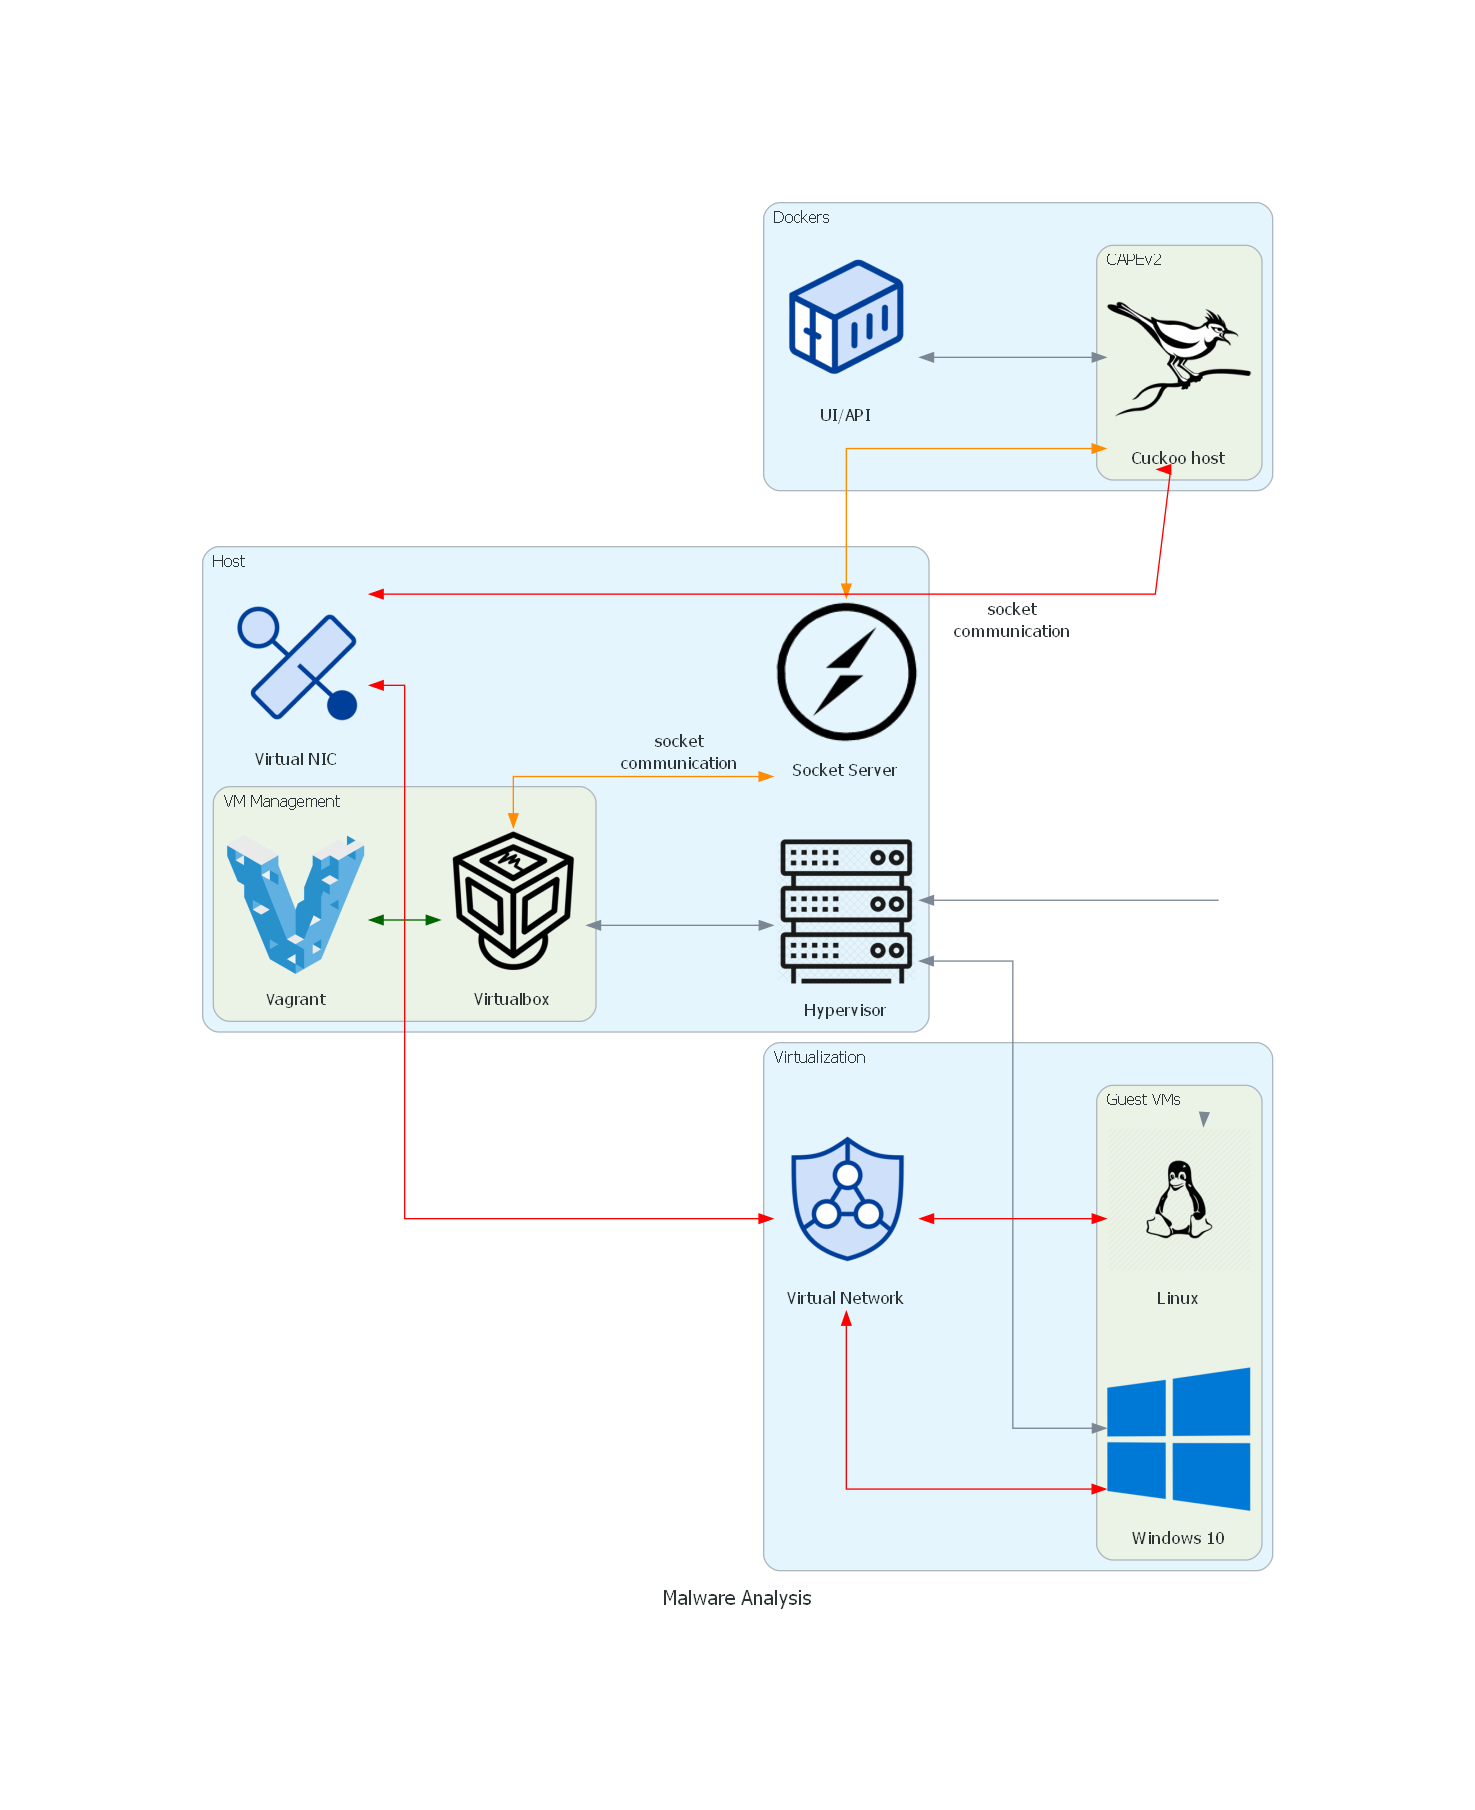
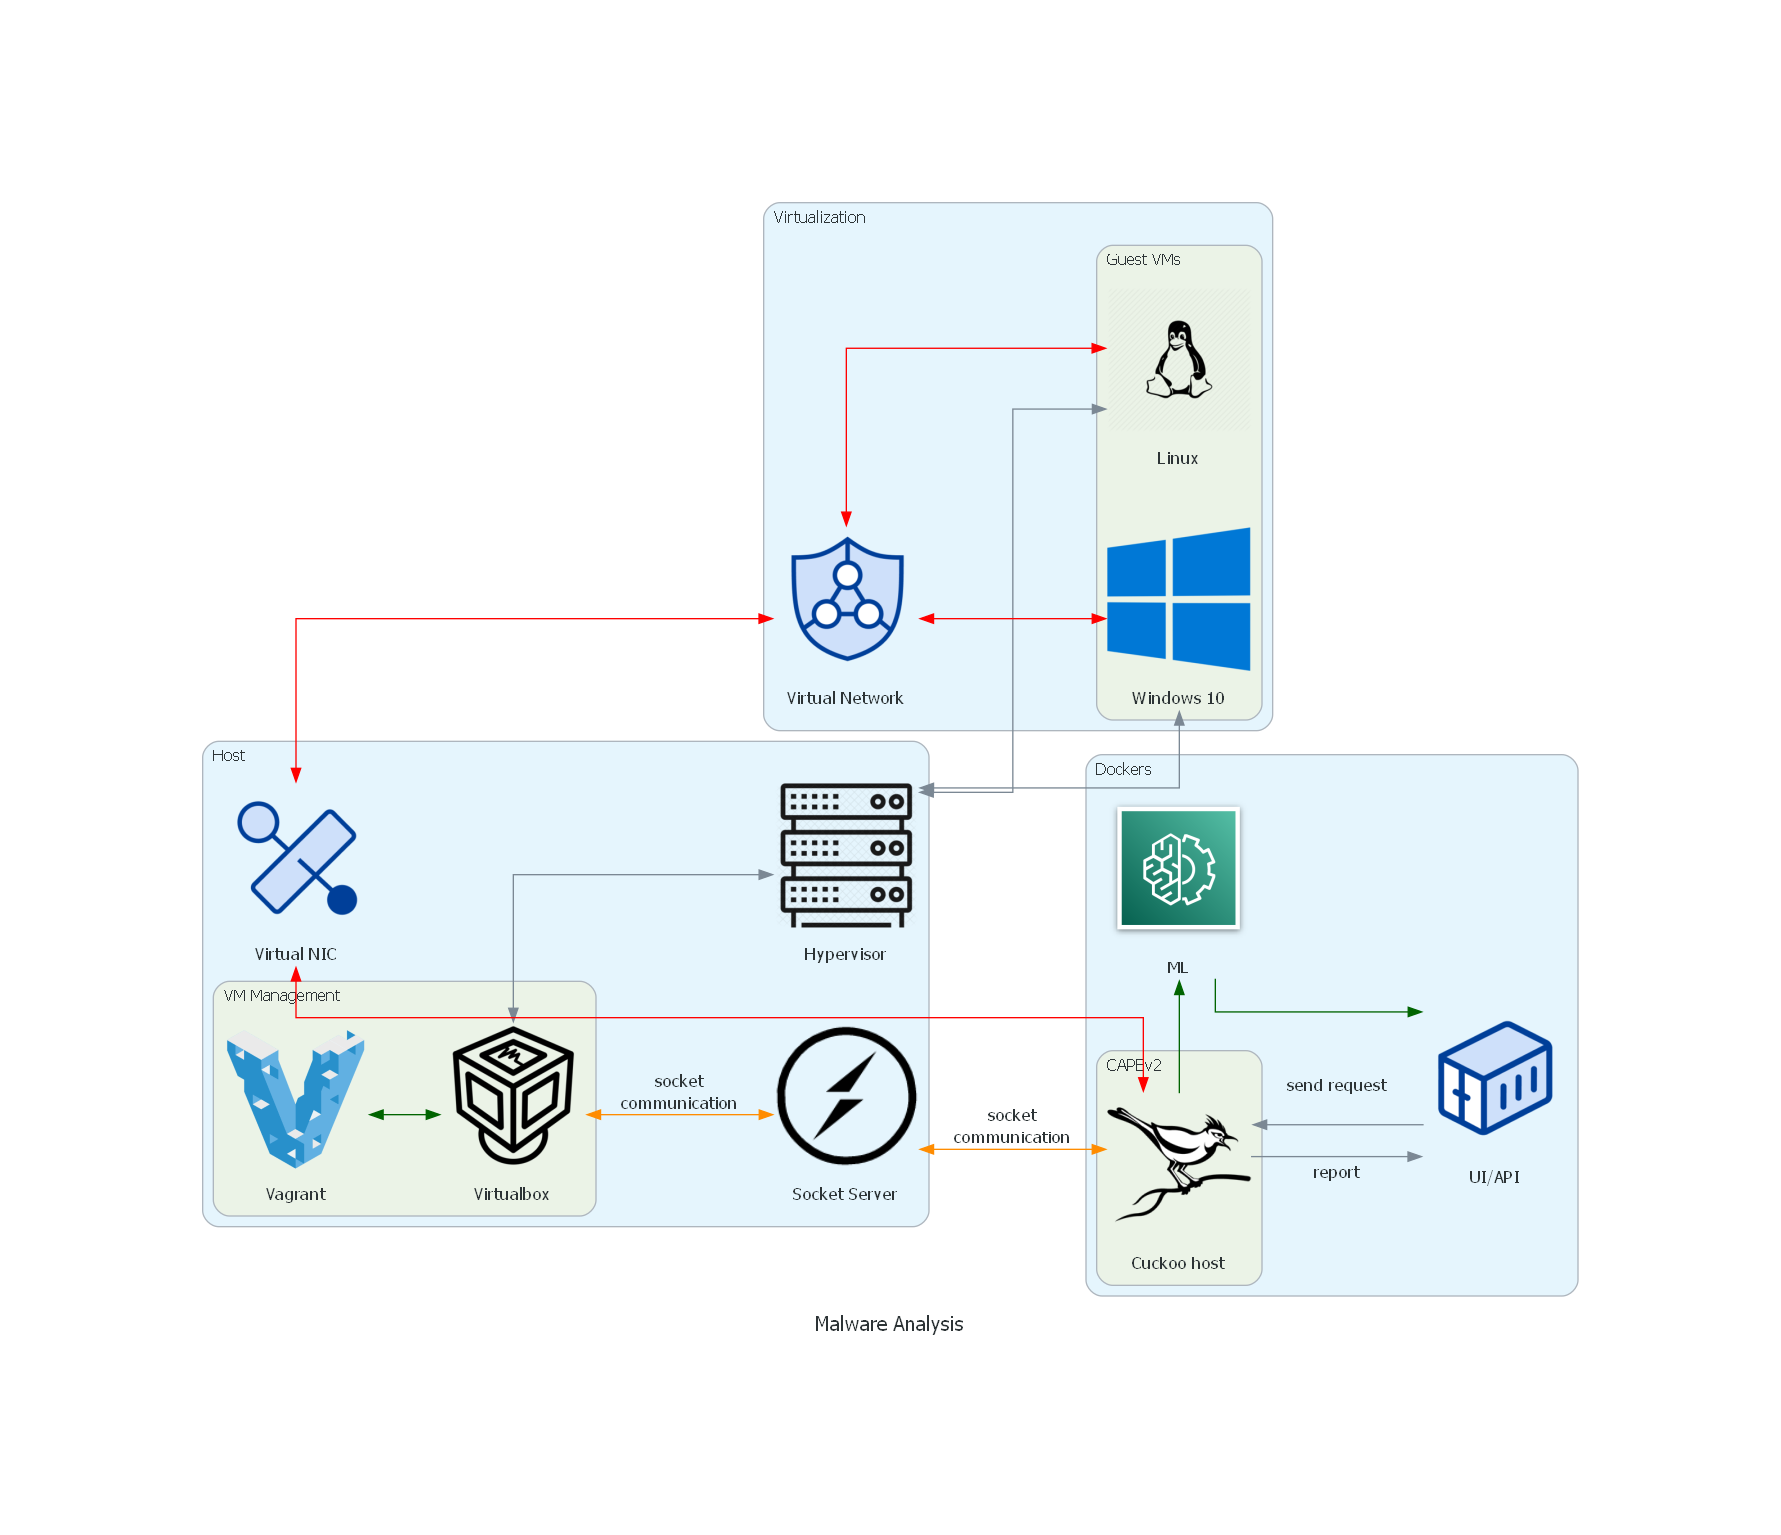
done

Changed region(s): [[0.0936, 0.0919, 0.9044, 0.8879]]

diff --git a/diagrams/main.py b/diagrams/main.py
@@ -4,13 +4,14 @@ from diagrams.digitalocean.network import ManagedVpn, InternetGateway
 from diagrams.generic.os import Windows, LinuxGeneral
 from diagrams.generic.virtualization import Virtualbox
 from diagrams.generic.compute import Rack
+from diagrams.aws.ml import MachineLearning
 from diagrams.custom import Custom
 from diagrams.aws.database import RDS
 from diagrams.aws.network import ELB
 
 graph_attr = {
     "pad": "2.0",
-    "splines": "ortho",
+    "splines": "ortho", # curved OR ortho
     "nodesep": "0.60",
     "ranksep": "0.75",
     "fontname": "Sans-Serif",
@@ -59,6 +60,8 @@ with Diagram(
 
         api = Containers("UI/API")
 
+        ml = MachineLearning("ML")
+
     with Cluster("Virtualization"):
         with Cluster("Guest VMs", direction="TB"):
             guests = [Windows("Windows 10"), LinuxGeneral("Linux")]
@@ -68,7 +71,7 @@ with Diagram(
     # Edge
     virtualbox >> Edge(reverse=True) >> hypervisor >> Edge(reverse=True) >> guests
 
-    api >> Edge(reverse=True) >> cuckoo
+    api >> Edge(label="send request") >> cuckoo >> Edge(label="report") >> api
 
     (
         vagrant
@@ -77,7 +80,7 @@ with Diagram(
         >> Edge(label="socket\ncommunication", reverse=True, color="darkorange")
         >> socket_server
         >> Edge(label="socket\ncommunication", reverse=True, color="darkorange")
-        << cuckoo
+        << cuckoo >> Edge(label="report", color="darkgreen") >> ml >> Edge(color="darkgreen") >> api
     )
 
     (
